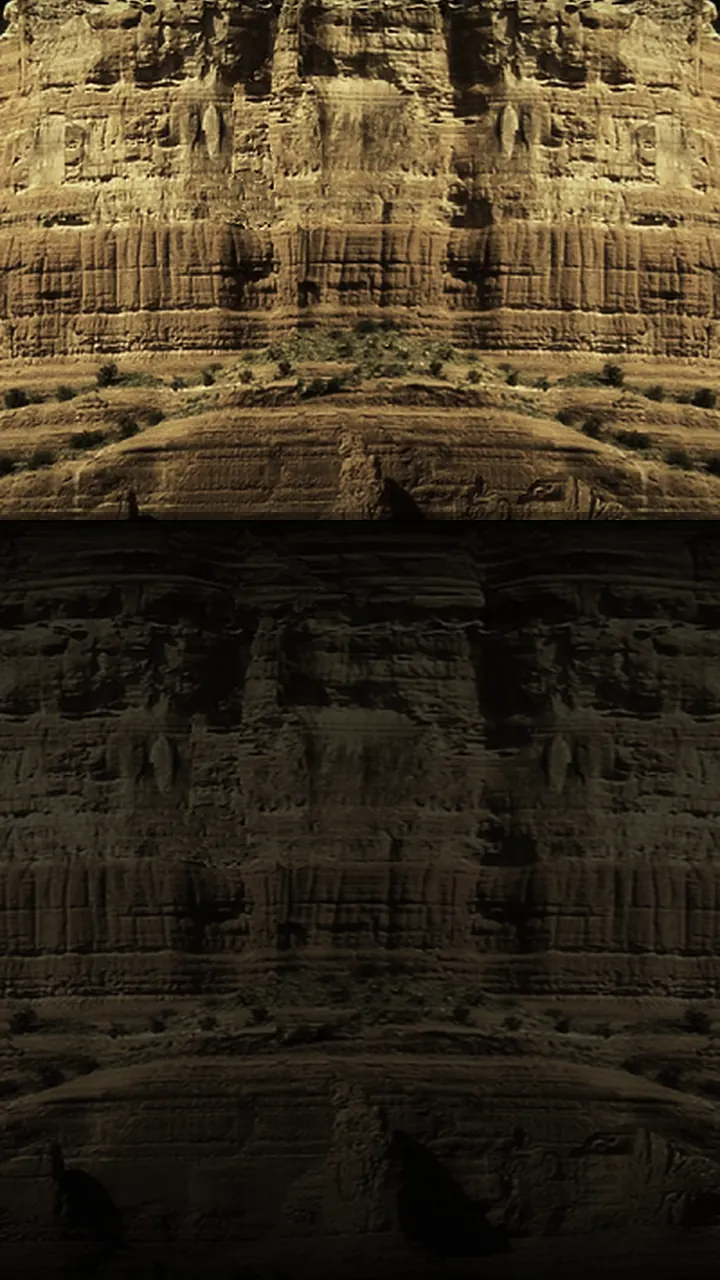
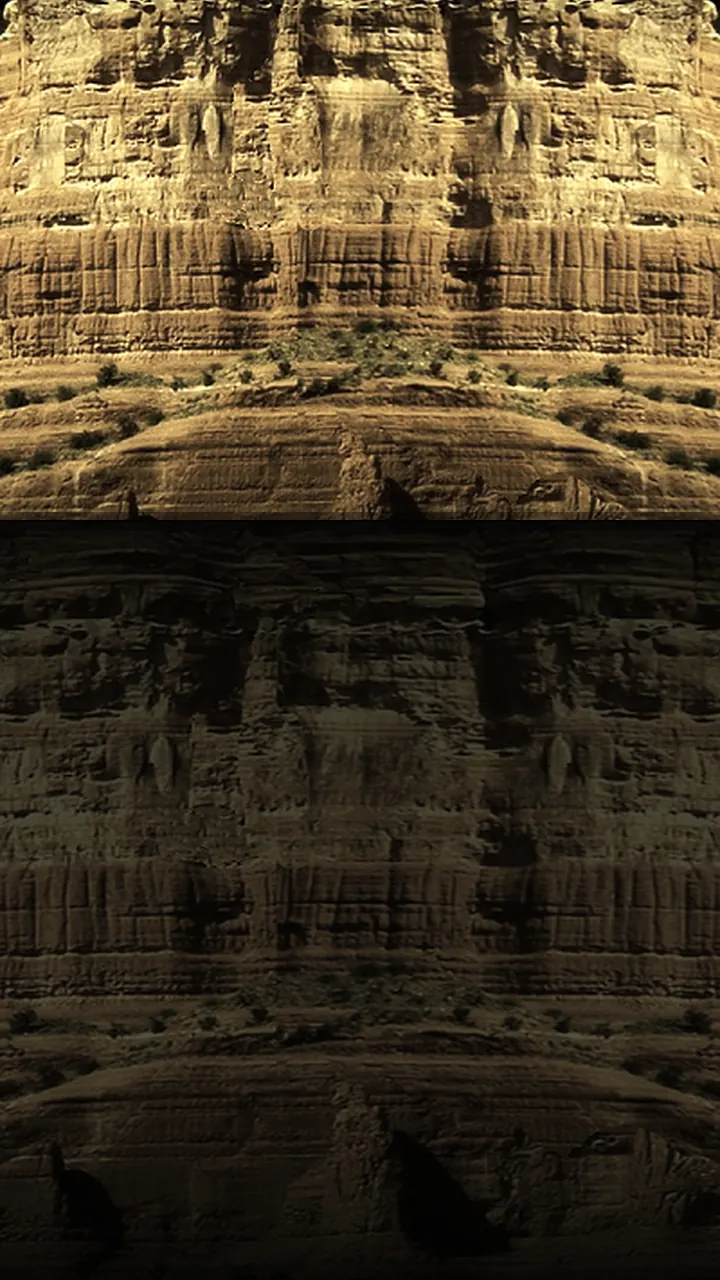
fix(mobile): room-art cleanup pass from visual playthrough
- Brighten the wall67-a, cave-wall, and wall47-d backdrops and lift
  door07 so dark doors read against dark walls (oubliettes, waystones,
  the False Waystone).
- Move the Stair of Returns (ap2-12) onto the plank wall — wall12-b's
  baked-in windows collided with the overlaid door hotspots; the unused
  backdrop is dropped from the bundle.
- Add /devart/rooms: dev-gated gallery rendering every authored room's
  RoomScene so art pairings can be audited without walking the maze
  past gates and encounters.

Claude-Session: https://claude.ai/code/session_01GSVxBYwThe7RcskDmt3BgN

Changed region(s): [[0.0, 0.0, 1.0, 0.4062]]

diff --git a/axiomancer-mobile/app/devart/rooms.tsx b/axiomancer-mobile/app/devart/rooms.tsx
@@ -1,0 +1,115 @@
+/**
+ * Dev-only Aporia room gallery. Renders every authored room's
+ * `RoomScene` (wall backdrop + matched door art + POI layer) in a
+ * scrolling column so the per-room art pairings can be eyeballed
+ * without walking the maze past its gates and encounters. Secret doors
+ * are shown revealed; gated doors wear their sealed slab. Gated to dev
+ * builds; production renders nothing.
+ *
+ * Route: /devart/rooms
+ */
+
+import React from 'react';
+import { ScrollView, Text, View } from 'react-native';
+
+import { RoomScene } from '@/components/labyrinth/RoomScene';
+import { FONTS } from '@/theme/axm';
+import { makeStyles } from '@/theme/runtime';
+import { isDevToolsEnabled } from '@/lib/buildProfile';
+import { getAporiaAct } from '@mechanics';
+import type { LabyrinthActDef } from '@mechanics';
+
+const ACT_IDS = ['act1', 'act2', 'act3'] as const;
+
+function actRooms(act: LabyrinthActDef) {
+    const displayOf = new Map(act.rooms.map((r) => [r.nodeId, r.display]));
+    return act.rooms.map((room) => ({
+        nodeId: room.nodeId,
+        name: room.name,
+        display: room.display,
+        doors: room.doors.map((d) => ({
+            to: d.to,
+            display: displayOf.get(d.to) ?? '?',
+            gated: Boolean(d.gate),
+        })),
+        pois: (room.pois ?? []).map((p) => ({ id: p.id, label: p.label, inspected: false })),
+    }));
+}
+
+export default function DevRoomGallery() {
+    const styles = useStyles();
+    if (!isDevToolsEnabled()) {
+        return <View style={styles.root} testID="devart-rooms-disabled" />;
+    }
+    return (
+        <ScrollView style={styles.root} contentContainerStyle={styles.content} testID="devart-rooms-gallery">
+            <Text style={styles.heading}>APORIA ROOM GALLERY</Text>
+            {ACT_IDS.map((actId) => {
+                const act = getAporiaAct(actId);
+                return (
+                    <View key={actId}>
+                        <Text style={styles.actTitle}>{act.title}</Text>
+                        {actRooms(act).map((room) => (
+                            <View key={room.nodeId} style={styles.cell} testID={`devart-room-${room.nodeId}`}>
+                                <Text style={styles.label}>
+                                    {room.nodeId} · {room.name} · door {room.display}
+                                </Text>
+                                <View style={styles.frame}>
+                                    <RoomScene
+                                        nodeId={room.nodeId}
+                                        display={room.display}
+                                        doors={room.doors}
+                                        pois={room.pois}
+                                        sealedLabel="SEALED"
+                                        onDoorPress={() => {}}
+                                        onPoiPress={() => {}}
+                                    />
+                                </View>
+                            </View>
+                        ))}
+                    </View>
+                );
+            })}
+        </ScrollView>
+    );
+}
+
+const useStyles = makeStyles((AXM) => ({
+    root: {
+        flex: 1,
+        backgroundColor: AXM.bg,
+    },
+    content: {
+        alignItems: 'center',
+        paddingVertical: 24,
+        gap: 16,
+    },
+    heading: {
+        fontFamily: FONTS.gothic,
+        fontSize: 22,
+        color: AXM.parchment,
+        marginBottom: 8,
+    },
+    actTitle: {
+        fontFamily: FONTS.gothic,
+        fontSize: 17,
+        color: AXM.bone,
+        marginVertical: 10,
+        textAlign: 'center',
+    },
+    cell: {
+        alignItems: 'center',
+        gap: 6,
+        marginBottom: 18,
+    },
+    label: {
+        fontFamily: FONTS.sans,
+        fontSize: 12,
+        letterSpacing: 0.5,
+        color: AXM.ash,
+    },
+    frame: {
+        width: 360,
+        height: 640,
+    },
+}));

diff --git a/axiomancer-mobile/assets/images/labyrinth/index.ts b/axiomancer-mobile/assets/images/labyrinth/index.ts
@@ -21,7 +21,6 @@ const WALLS = {
     'cave-wall': require('./walls/cave-wall.webp'),
     'wall04-a1': require('./walls/wall04-a1.webp'),
     'wall04-a2': require('./walls/wall04-a2.webp'),
-    'wall12-b': require('./walls/wall12-b.webp'),
     'wall19': require('./walls/wall19.webp'),
     'wall19-b': require('./walls/wall19-b.webp'),
     'wall20': require('./walls/wall20.webp'),
@@ -92,7 +91,7 @@ const ROOM_ART: Readonly<Record<string, readonly [WallKey, DoorKey]>> = {
     'ap2-9': ['wall44', 'door08-b'], // The Spine
     'ap2-10': ['wall44', 'door04-c'], // The Periodicals Rotunda
     'ap2-11': ['wall20', 'egypt-door-open'], // The Scriptorium: walls of writing
-    'ap2-12': ['wall12-b', 'door04-c'], // The Stair of Returns: high windows
+    'ap2-12': ['wall31-b', 'door04-c'], // The Stair of Returns: plank stairwell
     'ap2-13': ['wall31-b', 'door08-a'], // The Bindery
     'ap2-14': ['wall44', 'door08-b'], // The Unshelved Corridor
     'ap2-15': ['wall44', 'door09-b'], // The Weight of Volumes: rusted hatch out
